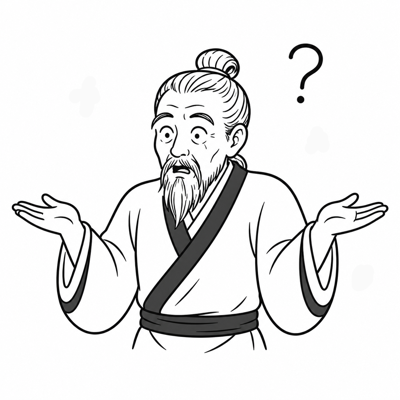
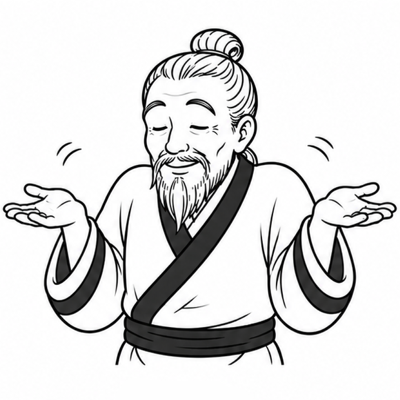
update chemistry screen

diff --git a/flutter/lib/presentation/screens/chemistry/chemistry_screen.dart b/flutter/lib/presentation/screens/chemistry/chemistry_screen.dart
@@ -11,8 +11,8 @@ import 'package:facely/presentation/screens/team/team_band.dart';
 import 'package:facely/presentation/screens/team/team_create_page.dart';
 import 'package:facely/presentation/screens/team/team_room_screen.dart';
 import 'package:facely/presentation/widgets/coin_chip.dart';
+import 'package:facely/presentation/widgets/emotion_empty_state.dart';
 import 'package:facely/presentation/widgets/my_face_capture_flow.dart';
-import 'package:facely/presentation/widgets/primary_button.dart';
 import 'package:flutter/material.dart';
 import 'package:flutter_riverpod/flutter_riverpod.dart';
 import 'package:font_awesome_flutter/font_awesome_flutter.dart';
@@ -25,7 +25,18 @@ class ChemistryScreen extends ConsumerStatefulWidget {
   ConsumerState<ChemistryScreen> createState() => _ChemistryScreenState();
 }
 
-class _ChemistryScreenState extends ConsumerState<ChemistryScreen> {
+class _ChemistryScreenState extends ConsumerState<ChemistryScreen>
+    with SingleTickerProviderStateMixin {
+  // 탭 수는 2 고정 (내가 만든 / 초대받은) — 동적 재생성 불필요.
+  late final TabController _tabController =
+      TabController(length: 2, vsync: this);
+
+  @override
+  void dispose() {
+    _tabController.dispose();
+    super.dispose();
+  }
+
   @override
   Widget build(BuildContext context) {
     final compact = MediaQuery.of(context).size.height < 720;
@@ -33,7 +44,9 @@ class _ChemistryScreenState extends ConsumerState<ChemistryScreen> {
     final bottomGap = compact ? AppSpacing.lg : AppSpacing.huge;
 
     // 팀 카드의 alias·썸네일이 history 변화에 반응하도록 watch 유지.
-    ref.watch(historyProvider);
+    final history = ref.watch(historyProvider);
+    // 관상·궁합 탭과 동일 규칙 — 내부 탭은 내 관상 등록 후에만 나타난다.
+    final hasMyFace = history.any((r) => r.isMyFace);
     final auth = ref.watch(authProvider);
     final teams = ref.watch(teamsProvider);
     // 소유는 생성 시점에 고정된 ownedByMe 로 판정 — 변경 가능한 내 관상 id 와
@@ -67,6 +80,32 @@ class _ChemistryScreenState extends ConsumerState<ChemistryScreen> {
         ),
         // 다른 사람 관상보기 pill 은 관상 탭 AppBar 로 이관 (2026-07-10).
         actions: [
+          // [케미 그룹 시작] — 궁합 [상대방 관상 추가] pill 과 동일한
+          // outlined stadium 레시피 (§2.5). 내 관상 등록 후에만 노출.
+          if (hasMyFace)
+            Center(
+              child: GestureDetector(
+                onTap: _createTeam,
+                child: Container(
+                  padding: const EdgeInsets.symmetric(
+                    horizontal: AppSpacing.md,
+                    vertical: 6,
+                  ),
+                  decoration: BoxDecoration(
+                    color: AppColors.background,
+                    border: Border.all(color: AppColors.textPrimary),
+                    borderRadius: BorderRadius.circular(999),
+                  ),
+                  child: Text(
+                    '케미 그룹 시작',
+                    style: AppText.caption.copyWith(
+                      fontWeight: FontWeight.w700,
+                      color: AppColors.textPrimary,
+                    ),
+                  ),
+                ),
+              ),
+            ),
           // 궁합 탭과 동일 형태의 info 버튼 + 다이얼로그.
           IconButton(
             icon: const FaIcon(FontAwesomeIcons.circleInfo, size: 20),
@@ -74,123 +113,125 @@ class _ChemistryScreenState extends ConsumerState<ChemistryScreen> {
             onPressed: () => _showInfoDialog(context),
           ),
         ],
+        // 관상 탭과 동일 속성의 TabBar (labelColor·indicator·라벨 개수 표기).
+        bottom: hasMyFace
+            ? TabBar(
+                controller: _tabController,
+                labelColor: AppColors.textPrimary,
+                unselectedLabelColor: AppColors.textHint,
+                indicatorColor: AppColors.textPrimary,
+                tabs: [
+                  Tab(text: '내가 만든 케미 그룹 (${owned.length})'),
+                  Tab(text: '초대받은 케미 그룹 (${invited.length})'),
+                ],
+              )
+            : null,
       ),
       body: SafeArea(
-        child: RefreshIndicator(
-          onRefresh: _refreshGroups,
-          child: CustomScrollView(
-            physics: const AlwaysScrollableScrollPhysics(),
-            slivers: [
-            SliverToBoxAdapter(child: SizedBox(height: topGap)),
-            // 내가 만든 방 — sticky 섹션 헤더.
-            const SliverPersistentHeader(
-              pinned: true,
-              delegate: _StickySectionHeader(title: '내가 만든 그룹'),
-            ),
-            if (owned.isEmpty)
-              SliverToBoxAdapter(
-                child: Padding(
-                  padding: const EdgeInsets.symmetric(
-                      horizontal: AppSpacing.xxl),
-                  child: Column(
-                    children: [
-                      const SizedBox(height: AppSpacing.sm),
-                      // 초대받은 그룹 빈 상태와 동일 규격 — emotion 패밀리 84.
-                      Image.asset(
-                        'assets/images/emotion-laugh.png',
-                        width: 84,
-                        height: 84,
-                        fit: BoxFit.contain,
-                      ),
-                      const SizedBox(height: AppSpacing.sm),
-                      Text(
-                        '내가 만든 케미 그룹이 없소이다.',
-                        style: AppText.caption.copyWith(
-                          color: AppColors.textHint,
-                        ),
-                        textAlign: TextAlign.center,
-                      ),
-                    ],
-                  ),
-                ),
+        child: hasMyFace
+            ? TabBarView(
+                controller: _tabController,
+                children: [
+                  _groupTab(owned, _ownedEmpty, topGap, bottomGap),
+                  _groupTab(invited, _invitedEmpty, topGap, bottomGap),
+                ],
               )
-            else
-              SliverPadding(
-                padding: const EdgeInsets.fromLTRB(
-                    AppSpacing.xxl, AppSpacing.md, AppSpacing.xxl, 0),
-                sliver: SliverList.builder(
-                  itemCount: owned.length,
-                  itemBuilder: (_, i) => _TeamCard(
-                    key: ValueKey(owned[i].id),
-                    room: owned[i],
-                    onTap: () => _openRoom(owned[i]),
+            // 내 관상 미등록 — 탭 없이 sticky 섹션 헤더로 두 그룹을 한 스크롤에.
+            : _groupScroll(
+                [
+                  const SliverPersistentHeader(
+                    pinned: true,
+                    delegate: _StickySectionHeader(title: '내가 만든 그룹'),
                   ),
-                ),
-              ),
-            // ③ 생성 CTA — 내가 만든 방 섹션 바로 아래.
-            SliverToBoxAdapter(
-              child: Padding(
-                padding: const EdgeInsets.fromLTRB(
-                    AppSpacing.xxl, AppSpacing.sm, AppSpacing.xxl,
-                    AppSpacing.xl),
-                // 본문 CTA 는 흰색+1px border — 검정 invert 는 오버레이(스낵바) 전용.
-                child: SecondaryButton(
-                  label: '그룹 케미 시작하기',
-                  onPressed: _createTeam,
-                ),
-              ),
-            ),
-            // 초대받은 방 — sticky 섹션 헤더. P3 원격 합류 방이 들어온다.
-            const SliverPersistentHeader(
-              pinned: true,
-              delegate: _StickySectionHeader(title: '초대받은 그룹'),
-            ),
-            if (invited.isEmpty)
-              SliverToBoxAdapter(
-                child: Padding(
-                  padding: const EdgeInsets.symmetric(
-                      horizontal: AppSpacing.xxl),
-                  child: Column(
-                    children: [
-                      const SizedBox(height: AppSpacing.sm),
-                      // nudge 스낵바의 emotion-photo(84) 와 동일 크기 — 같은
-                      // emotion 일러스트 패밀리는 같은 스케일로.
-                      Image.asset(
-                        'assets/images/emotion-shrug.png',
-                        width: 84,
-                        height: 84,
-                        fit: BoxFit.contain,
-                      ),
-                      const SizedBox(height: AppSpacing.sm),
-                      Text(
-                        '초대받은 그룹이 없습니다',
-                        style: AppText.caption.copyWith(
-                          color: AppColors.textHint,
-                        ),
-                        textAlign: TextAlign.center,
-                      ),
-                    ],
+                  ..._sectionSlivers(owned, _ownedEmpty),
+                  // 초대받은 방 — P3 원격 합류 방이 들어온다.
+                  const SliverPersistentHeader(
+                    pinned: true,
+                    delegate: _StickySectionHeader(title: '초대받은 그룹'),
                   ),
-                ),
-              )
-            else
-              SliverPadding(
-                padding: const EdgeInsets.fromLTRB(
-                    AppSpacing.xxl, AppSpacing.md, AppSpacing.xxl, 0),
-                sliver: SliverList.builder(
-                  itemCount: invited.length,
-                  itemBuilder: (_, i) => _TeamCard(
-                    key: ValueKey(invited[i].id),
-                    room: invited[i],
-                    onTap: () => _openRoom(invited[i]),
-                  ),
-                ),
+                  ..._sectionSlivers(invited, _invitedEmpty),
+                ],
+                topGap,
+                bottomGap,
               ),
-            // 다른 사람 관상 보기는 AppBar 우상단 버튼(카메라/앨범)으로 일원화 —
-            // 하단 중복 보조 컨테이너 제거.
-            SliverToBoxAdapter(child: SizedBox(height: bottomGap)),
-            ],
+      ),
+    );
+  }
+
+  /// 당겨서 새로고침이 붙은 그룹 스크롤 — 탭 본문과 미등록 단일 스크롤 공용.
+  Widget _groupScroll(List<Widget> slivers, double topGap, double bottomGap) {
+    return RefreshIndicator(
+      onRefresh: _refreshGroups,
+      child: CustomScrollView(
+        physics: const AlwaysScrollableScrollPhysics(),
+        slivers: [
+          SliverToBoxAdapter(child: SizedBox(height: topGap)),
+          ...slivers,
+          // 다른 사람 관상 보기는 AppBar 우상단 버튼(카메라/앨범)으로 일원화 —
+          // 하단 중복 보조 컨테이너 제거.
+          SliverToBoxAdapter(child: SizedBox(height: bottomGap)),
+        ],
+      ),
+    );
+  }
+
+  // §3.8 공용 빈 상태 — 탭 본문(세로 중앙)과 미등록 섹션이 공유.
+  static const _ownedEmpty = EmotionEmptyState(
+    asset: 'assets/images/emotion-laugh.png',
+    message: '내가 만든 케미 그룹이 없소이다.',
+  );
+  static const _invitedEmpty = EmotionEmptyState(
+    asset: 'assets/images/emotion-shrug.png',
+    message: '초대받은 그룹이 없습니다',
+  );
+
+  /// 탭 본문 — 빈 리스트는 관상 빈 탭과 동일하게 SliverFillRemaining 으로
+  /// 화면 세로 중앙 정렬.
+  Widget _groupTab(
+    List<TeamRoom> rooms,
+    EmotionEmptyState empty,
+    double topGap,
+    double bottomGap,
+  ) {
+    if (rooms.isEmpty) {
+      return RefreshIndicator(
+        onRefresh: _refreshGroups,
+        child: CustomScrollView(
+          physics: const AlwaysScrollableScrollPhysics(),
+          slivers: [
+            SliverFillRemaining(hasScrollBody: false, child: empty),
+          ],
+        ),
+      );
+    }
+    return _groupScroll([_roomListSliver(rooms)], topGap, bottomGap);
+  }
+
+  /// 미등록 모드의 섹션 sliver — sticky 헤더 아래 빈 상태 또는 카드 리스트.
+  List<Widget> _sectionSlivers(List<TeamRoom> rooms, EmotionEmptyState empty) {
+    if (rooms.isEmpty) {
+      return [
+        SliverToBoxAdapter(
+          child: Padding(
+            padding: const EdgeInsets.only(top: AppSpacing.sm),
+            child: empty,
           ),
+        ),
+      ];
+    }
+    return [_roomListSliver(rooms)];
+  }
+
+  Widget _roomListSliver(List<TeamRoom> rooms) {
+    return SliverPadding(
+      padding: const EdgeInsets.fromLTRB(
+          AppSpacing.xxl, AppSpacing.md, AppSpacing.xxl, 0),
+      sliver: SliverList.builder(
+        itemCount: rooms.length,
+        itemBuilder: (_, i) => _TeamCard(
+          key: ValueKey(rooms[i].id),
+          room: rooms[i],
+          onTap: () => _openRoom(rooms[i]),
         ),
       ),
     );

diff --git a/flutter/lib/presentation/widgets/other_face_scan_pill.dart b/flutter/lib/presentation/widgets/other_face_scan_pill.dart
@@ -1,4 +1,5 @@
 import 'package:facely/core/theme.dart';
+import 'package:facely/presentation/providers/history_provider.dart';
 import 'package:facely/presentation/widgets/my_face_capture_flow.dart';
 import 'package:flutter/material.dart';
 import 'package:flutter_riverpod/flutter_riverpod.dart';
@@ -6,11 +7,14 @@ import 'package:flutter_riverpod/flutter_riverpod.dart';
 /// [상대방 관상 추가] AppBar pill — 관상·궁합 탭 공유 (§2.5 공용 승격).
 /// 설정 [충전하기]·궁합 등록 pill 과 동일한 outlined stadium 레시피.
 /// 탭 = 즉시 카메라 (내 관상 등록과 동일 UX, 앨범은 카메라 화면 안 숏컷).
+/// 내 관상 등록 후에만 노출 — 미등록 상태의 진입은 등록 nudge 가 전담.
 class OtherFaceScanPill extends ConsumerWidget {
   const OtherFaceScanPill({super.key});
 
   @override
   Widget build(BuildContext context, WidgetRef ref) {
+    final hasMyFace = ref.watch(historyProvider).any((r) => r.isMyFace);
+    if (!hasMyFace) return const SizedBox.shrink();
     return Center(
       child: GestureDetector(
         onTap: () => startOtherFaceCapture(context, ref),